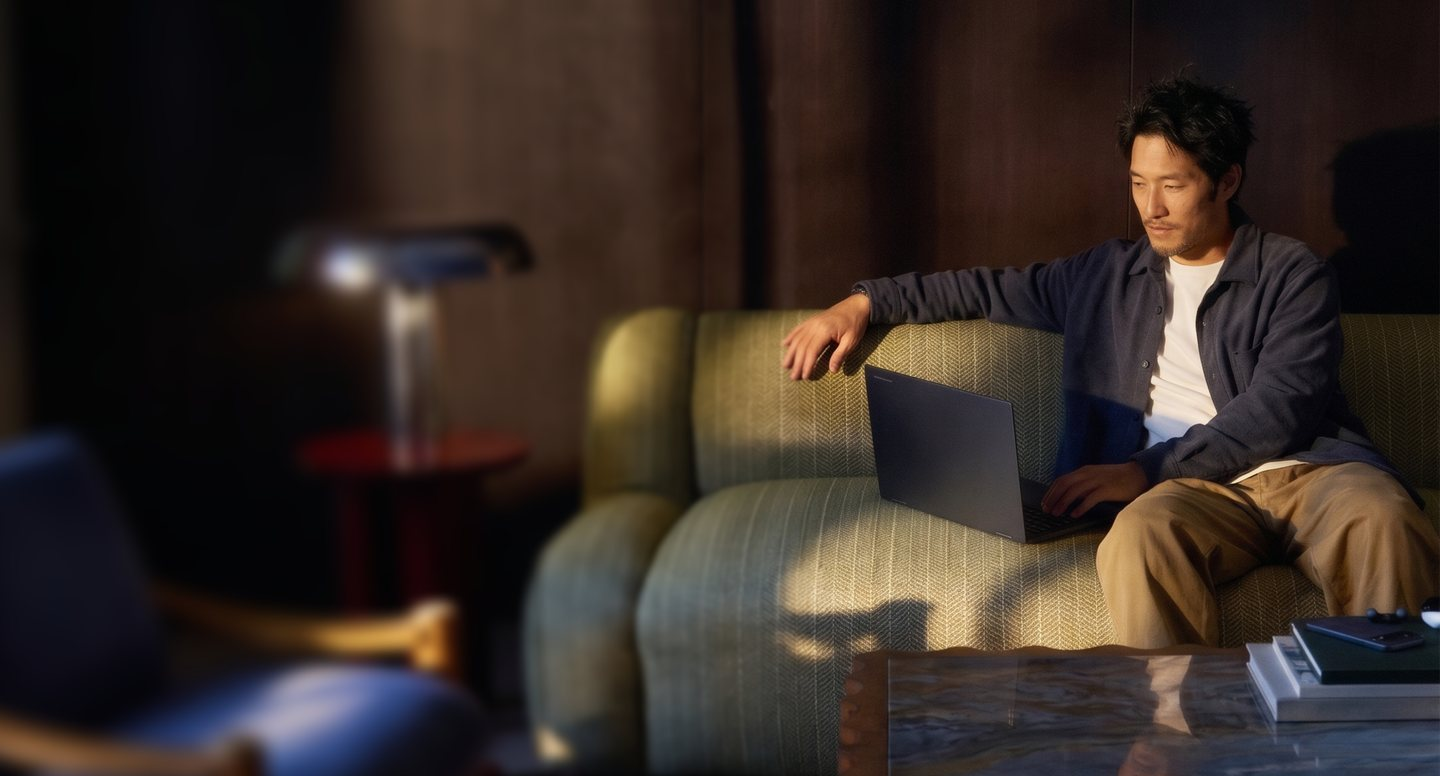
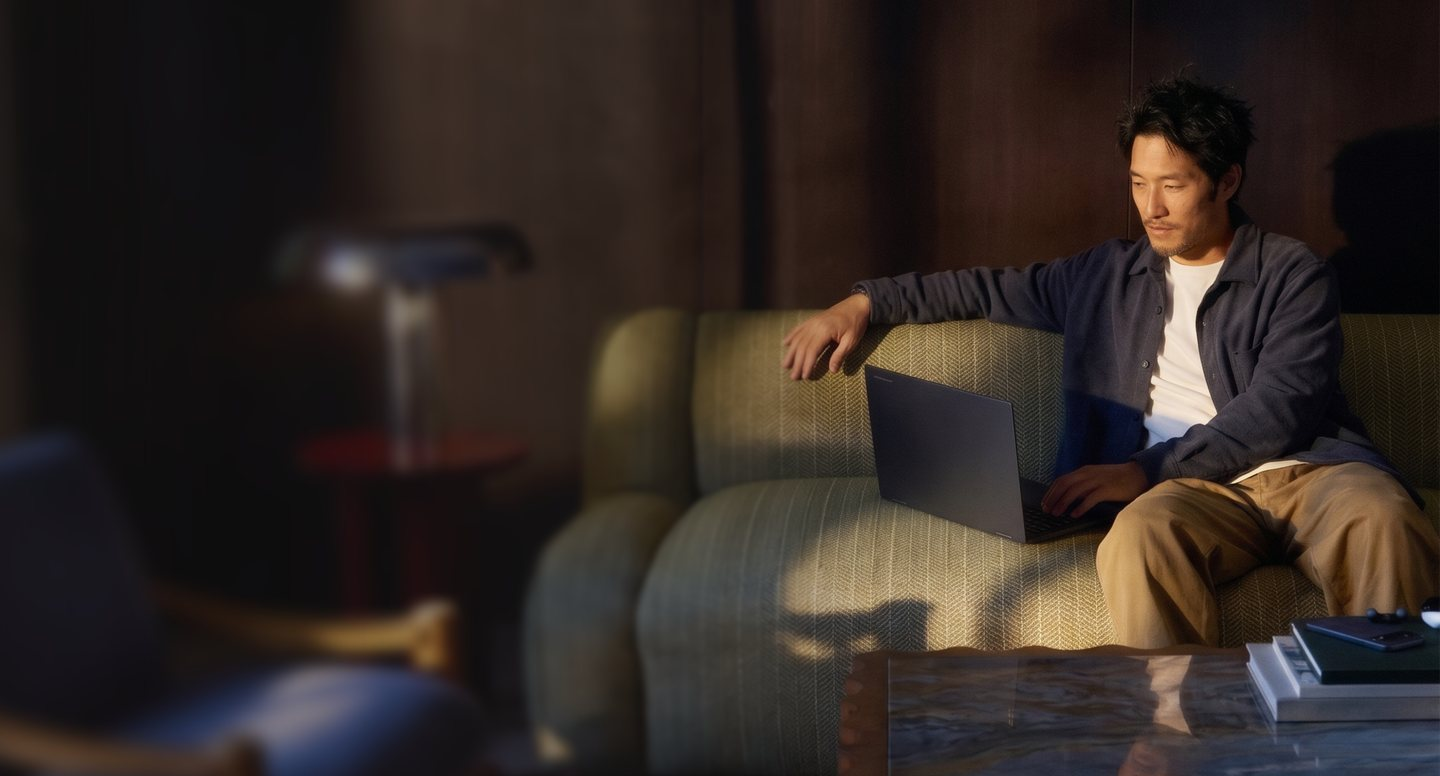
Creative Team hero: keep the Figma v5 framing at every width
Photo and overlay baked together from the Figma exports; image pinned right at
Figma scale; above 1440px the hero (and the text offset) grows with the width.

Claude-Session: https://claude.ai/code/session_019fPYJCfpmtv75kqvdKdEBc

diff --git a/css/ctaas.css b/css/ctaas.css
@@ -223,12 +223,12 @@
   .ct-illo .move { transform: translate(70px, 0); fill: rgba(242,242,237,.85); }
 }
 
-@media (min-width: 992px) { .ct-hero--v5 { height: 776px; } .ct-hero--v5 + .ct-clients { padding-top: 112px; } }
-/* Creative Team hero, Figma "v5": new photo with its progressive blur exported as-is, and the v5 overlay */
-.ct-hero--v5 { background-image: url("../assets/img/ctaas/hero-v5.jpg"); background-image: image-set(url("../assets/img/ctaas/hero-v5.webp") 1x, url("../assets/img/ctaas/hero-v5@2x.webp") 2x); }
-.ct-hero--v5::before { height: 800px; background: linear-gradient(90.26deg, rgb(33 29 29 / .56) -9.62%, rgb(33 29 29 / .35) 15.98%, rgb(33 29 29 / .353) 18.65%, rgb(33 29 29 / .491) 40.63%, rgb(33 29 29 / 0) 73.2%); }
-@media (max-width: 1100px) { .ct-hero--v5 { background-position: 82% 0; } }
-@media (max-width: 767px) { .ct-hero--v5 { background-position: 100% 0; } }
+/* Creative Team hero, Figma "v5": photo (crop + progressive blur) and the overlay layer exported from Figma and
+   baked into one image, so photo and shade always move together. The image keeps the Figma scale and stays pinned
+   to the right edge at every width; above 1440px the hero grows with the width so the framing never changes. */
+.ct-hero--v5 { background-image: url("../assets/img/ctaas/hero-v5.jpg"); background-image: image-set(url("../assets/img/ctaas/hero-v5.webp") 1x, url("../assets/img/ctaas/hero-v5@2x.webp") 2x); background-size: cover; background-position: 100% 0; }
+.ct-hero--v5::before { content: none; }
+@media (min-width: 992px) { .ct-hero--v5 { height: max(776px, 53.8889vw); } .ct-hero--v5 .ct-hero__inner { padding-top: max(230px, 15.9722vw); } .ct-hero--v5 + .ct-clients { padding-top: 112px; } }
 
 /* =========================== responsive =========================== */
 @media (max-width: 1100px) {

diff --git a/creative-team.html b/creative-team.html
@@ -18,7 +18,7 @@
   <link rel="stylesheet" href="css/base.css?v=20261006a">
   <link rel="stylesheet" href="css/menu.css?v=20261029a">
   <link rel="stylesheet" href="css/sections.css?v=20261022u">
-  <link rel="stylesheet" href="css/ctaas.css?v=36">
+  <link rel="stylesheet" href="css/ctaas.css?v=37">
 </head>
 <body class="is-ctaas">
 

diff --git a/fondation.html b/fondation.html
@@ -18,7 +18,7 @@
   <link rel="stylesheet" href="css/base.css?v=20261006a">
   <link rel="stylesheet" href="css/menu.css?v=20261029a">
   <link rel="stylesheet" href="css/sections.css?v=20261022u">
-  <link rel="stylesheet" href="css/ctaas.css?v=36">
+  <link rel="stylesheet" href="css/ctaas.css?v=37">
 </head>
 <body class="is-ctaas">
 
